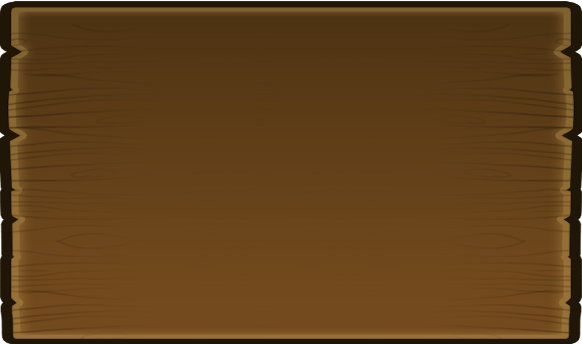
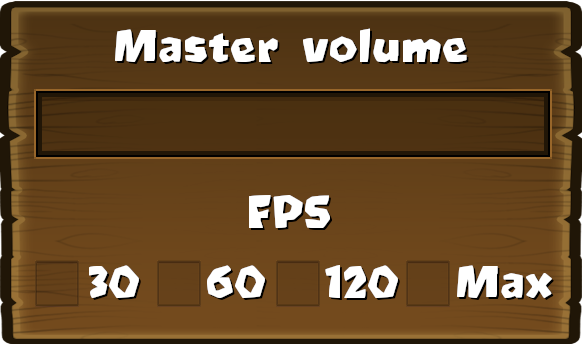
Added fully functionnal settings menu, volume slider, framerate selector, added buttons, fixed three states button, TODO : Adding volume changing depending on master volume slider

diff --git a/include/my_defender.h b/include/my_defender.h
@@ -89,18 +89,19 @@ typedef struct menu_background {
 typedef struct settings_ui {
     button close_button;
     menu_background background;
-    menu_background fps_bg;
     menu_background sound_bg;
+    simple_entity check_mark;
+    sfRectangleShape *volume_rect;
 } settings_ui;
 
 typedef struct menu_scene {
     sfRenderWindow *window;
     menu_background menu_background;
-    settings_ui opt_ui;
+    settings_ui settings_ui;
     menu_ui ui;
     choice_menu choice_menu;
     bool map_selected;
-    int opt_state;
+    int settings_state;
     int choice_state;
     int *game_state;
     int *map_index;
@@ -135,6 +136,7 @@ typedef struct play_scene {
 
 typedef struct game_core {
     sfRenderWindow *window;
+    sfMusic *music;
     play_scene play_scene;
     menu_scene menu_scene;
     sfEvent event;
@@ -149,7 +151,7 @@ char *my_strcat(char *, char *);
 int my_strlen(char *str);
 button create_button(char *file_path, sfFloatRect rect);
 void check_hover_click_ui(menu_scene *menu_scene);
-void check_hover_click_opt(menu_scene *menu_scene);
+void check_hover_click_settings(menu_scene *menu_scene);
 void check_hover_click(menu_scene *menu_scene);
 void fill_button_textures(button *button, char *file_path);
 void hovering_button(menu_scene *menu_scene);
@@ -161,6 +163,8 @@ void settings_interaction(menu_scene *menu_scene);
 void play_interaction(menu_scene *menu_scene);
 void mouse_click_interaction(menu_scene *menu_scene);
 void fill_map_texture(play_scene *play_scene);
+void fps_selection(menu_scene *menu_scene);
+int fps_selection_two(sfVector2i pos, simple_entity check);
 
 //GET
 sfVector2i get_mouse_pos(sfRenderWindow *window);
@@ -178,13 +182,12 @@ void i_game_core_pointers(game_core *game_core);
 void i_play_scene(play_scene *, sfRenderWindow *);
 void i_menu_scene(menu_scene *, sfRenderWindow *);
 void i_menu_background(menu_background *menu_background);
-void i_opt_background(menu_background *menu_background);
-void i_fps_background(menu_background *menu_background);
+void i_settings_background(menu_background *menu_background);
 void i_choice_menu(choice_menu *choice_menu);
 void i_menu_ui(menu_ui *menu_ui);
-void i_settings_ui(settings_ui *opt_ui);
+void i_settings_ui(settings_ui *settings_ui);
 void i_cursor(game_core *gc);
-void i_settings_ui(settings_ui *opt_ui);
+void i_settings_ui(settings_ui *settings_ui);
 void i_choice_menu(choice_menu *choice_menu);
 void i_map(play_scene *play_scene);
 

diff --git a/src/zMain/check_hover_click.c b/src/zMain/check_hover_click.c
@@ -42,17 +42,34 @@ void check_hover_click_choice_menu(menu_scene *menu_scene)
         *menu_scene->map_index = 3;
 }
 
-void check_hover_click_options_menu(menu_scene *menu_scene)
+void volume_selection(menu_scene *scene)
 {
-    if (menu_scene->opt_ui.close_button.state == HOVER && sfMouse_isButtonPressed(sfMouseLeft))
-        menu_scene->opt_ui.close_button.state = CLICKING;
-    if (menu_scene->opt_ui.close_button.state == HOVER && menu_scene->event->mouseButton.type == sfEvtMouseButtonReleased && menu_scene->opt_state == 1)
-        menu_scene->opt_ui.close_button.state = CLICKED;
+    sfVector2i pos = sfMouse_getPositionRenderWindow(scene->window);
+    sfRectangleShape *rect = scene->settings_ui.volume_rect;
+    float rect_y = sfRectangleShape_getSize(scene->settings_ui.volume_rect).y;
+    if (sfMouse_isButtonPressed(sfMouseLeft)) {
+        if (pos.x >= 1242 && pos.x <= 1744 && pos.y >= 397 && pos.y <= 451) {
+            sfMouse_setPositionRenderWindow((sfVector2i){pos.x, 420}, scene->window);
+            sfRectangleShape_setSize(rect, (sfVector2f){pos.x - 1242, rect_y});
+        }
+    }
+}
+
+void check_hover_click_settings_menu(menu_scene *menu_scene)
+{
+    if (menu_scene->settings_ui.close_button.state == HOVER && sfMouse_isButtonPressed(sfMouseLeft))
+        menu_scene->settings_ui.close_button.state = CLICKING;
+    if (menu_scene->settings_ui.close_button.state == HOVER && menu_scene->event->mouseButton.type == sfEvtMouseButtonReleased && menu_scene->settings_state == 1)
+        menu_scene->settings_ui.close_button.state = CLICKED;
+    if (menu_scene->settings_state == 1) {
+        fps_selection(menu_scene);
+        volume_selection(menu_scene);
+    }
 }
 
 void check_hover_click(menu_scene *menu_scene)
 {
     check_hover_click_ui(menu_scene);
-    check_hover_click_options_menu(menu_scene);
+    check_hover_click_settings_menu(menu_scene);
     check_hover_click_choice_menu(menu_scene);
 }

diff --git a/src/zMain/fps_selection.c b/src/zMain/fps_selection.c
@@ -1,0 +1,51 @@
+/*
+** EPITECH PROJECT, 2020
+** MUL_my_defender_2019
+** File description:
+** fps_selection
+*/
+
+#include "../../include/my_defender.h"
+
+int fps_selection_two(sfVector2i pos, simple_entity check)
+{
+    if (pos.x >= 1215 && pos.x <= 1215 + 60 && pos.y >= 560 && pos.y <= 560
+    + 60) {
+        sfSprite_setPosition(check.sprite, (sfVector2f){1235, 560});
+        return (1);
+    }
+    if (pos.x >= 1337 && pos.x <= 1337 + 60 && pos.y >= 560 && pos.y <= 560
+    + 60) {
+        sfSprite_setPosition(check.sprite, (sfVector2f){1357, 560});
+        return (2);
+    }
+    if (pos.x >= 1456 && pos.x <= 1456 + 60 && pos.y >= 560 && pos.y <= 560
+    + 60) {
+        sfSprite_setPosition(check.sprite, (sfVector2f){1476, 560});
+        return (3);
+    }
+    if (pos.x >= 1586 && pos.x <= 1586 + 60 && pos.y >= 560 && pos.y <= 560
+    + 60) {
+        sfSprite_setPosition(check.sprite, (sfVector2f){1606, 560});
+        return (4);
+    }
+    return (-1);
+}
+
+void fps_selection(menu_scene *menu_scene)
+{
+    sfVector2i pos = sfMouse_getPositionRenderWindow(menu_scene->window);
+    simple_entity check = menu_scene->settings_ui.check_mark;
+    if (menu_scene->event->mouseButton.type == sfEvtMouseButtonPressed) {
+        switch (fps_selection_two(pos, check)) {
+            case 1: sfRenderWindow_setFramerateLimit(menu_scene->window, 30);
+                break;
+            case 2: sfRenderWindow_setFramerateLimit(menu_scene->window, 60);
+                break;
+            case 3: sfRenderWindow_setFramerateLimit(menu_scene->window, 120);
+                break;
+            case 4: sfRenderWindow_setFramerateLimit(menu_scene->window, 0);
+                break;
+        }
+    }
+}

diff --git a/src/Display/Disp_game_core.c b/src/Display/Disp_game_core.c
@@ -18,18 +18,19 @@ void d_menu_ui(menu_ui *ui, sfRenderWindow *window)
 void d_settings_ui(settings_ui *ui, sfRenderWindow *window)
 {
     sfRenderWindow_drawSprite(window, ui->close_button.sprite, NULL);
+    sfRenderWindow_drawSprite(window, ui->check_mark.sprite, NULL);
+    sfRenderWindow_drawRectangleShape(window, ui->volume_rect, NULL);
 }
 
 void d_settings_background(settings_ui *ui, sfRenderWindow *window)
 {
     sfRenderWindow_drawSprite(window, ui->background.background_sprite, NULL);
-    sfRenderWindow_drawSprite(window, ui->fps_bg.background_sprite, NULL);
 }
 
 void d_settings(menu_scene *menu_scene)
 {
-    d_settings_background(&menu_scene->opt_ui, menu_scene->window);
-    d_settings_ui(&menu_scene->opt_ui,menu_scene->window);
+    d_settings_background(&menu_scene->settings_ui, menu_scene->window);
+    d_settings_ui(&menu_scene->settings_ui,menu_scene->window);
 }
 
 void d_choice_menu_bg(simple_entity *background, sfRenderWindow *window)
@@ -63,7 +64,7 @@ void d_menu_scene(menu_scene *menu_scene)
 {
     d_menu_background(&menu_scene->menu_background, menu_scene->window);
     d_menu_ui(&menu_scene->ui, menu_scene->window);
-    if (menu_scene->opt_state == 1)
+    if (menu_scene->settings_state == 1)
         d_settings(menu_scene);
     if (menu_scene->choice_state == 1)
         d_choice_menu(menu_scene);

diff --git a/src/zMain/interactions.c b/src/zMain/interactions.c
@@ -9,7 +9,7 @@
 
 void quit_interaction(menu_scene *menu_scene)
 {
-    if (menu_scene->ui.quit_btn.state == CLICKED && menu_scene->opt_state == 0 &&
+    if (menu_scene->ui.quit_btn.state == CLICKED && menu_scene->settings_state == 0 &&
     menu_scene->choice_state == 0) {
         sfRenderWindow_close(menu_scene->window);
     }
@@ -18,21 +18,19 @@ void quit_interaction(menu_scene *menu_scene)
 void settings_interaction(menu_scene *menu_scene)
 {
     if (menu_scene->ui.settings_btn.state == CLICKED && menu_scene->choice_state == 0) {
-        menu_scene->opt_state = 1;
+        menu_scene->settings_state = 1;
     }
-    if (menu_scene->opt_ui.close_button.state == CLICKED) {
-        menu_scene->opt_state = 0;
+    if (menu_scene->settings_ui.close_button.state == CLICKED) {
+        menu_scene->settings_state = 0;
     }
 }
 
 void play_interaction(menu_scene *menu_scene)
 {
-    if (menu_scene->ui.play_btn.state == CLICKED && menu_scene->opt_state == 0) {
+    if (menu_scene->ui.play_btn.state == CLICKED && menu_scene->settings_state == 0)
         menu_scene->choice_state = 1;
-    }
-    if (menu_scene->choice_menu.close_btn.state == CLICKED) {
+    if (menu_scene->choice_menu.close_btn.state == CLICKED)
         menu_scene->choice_state = 0;
-    }
 }
 
 void mouse_click_interaction(menu_scene *menu_scene)

diff --git a/src/Initialization/Init_settings_background.c b/src/Initialization/Init_settings_background.c
@@ -2,17 +2,16 @@
 ** EPITECH PROJECT, 2020
 ** MUL_my_defender_2019
 ** File description:
-** Init_opt_background
+** Init_settings_background
 */
 
 #include "../../include/my_defender.h"
 
-void i_opt_background(menu_background *menu_background)
+void i_settings_background(menu_background *menu_background)
 {
     menu_background->background_sprite = sfSprite_create();
     menu_background->background_texture = sfTexture_createFromFile("img/menu_scene/settings_bg.png", NULL);
-    menu_background->pos = (sfVector2f){570.0, 210.0};
+    menu_background->pos = (sfVector2f){1200.0, 300.0};
     sfSprite_setTexture(menu_background->background_sprite, menu_background->background_texture, sfTrue);
     sfSprite_setPosition(menu_background->background_sprite, menu_background->pos);
-    sfSprite_setScale(menu_background->background_sprite, (sfVector2f){1.35, 1.35});
 }

diff --git a/src/Initialization/Init_settings_ui.c b/src/Initialization/Init_settings_ui.c
@@ -7,10 +7,12 @@
 
 #include "../../include/my_defender.h"
 
-void i_settings_ui(settings_ui *opt_ui)
+void i_settings_ui(settings_ui *ui)
 {
-    i_opt_background(&opt_ui->background);
-    i_fps_background(&opt_ui->fps_bg);
-    opt_ui->close_button = create_button("img/in_game_buttons/close_", (sfFloatRect){1220.0, 280.0, 75, 75});
-    sfSprite_setPosition(opt_ui->close_button.sprite, opt_ui->close_button.pos);
+    i_settings_background(&ui->background);
+    ui->close_button = create_button("img/in_game_buttons/close_", (sfFloatRect){1730.0, 280.0, 75, 75});
+    ui->check_mark = set_simple_entity("img/menu_scene/checked.png", (sfFloatRect){1357, 560, 48, 50});
+    ui->volume_rect = sfRectangleShape_create();
+    sfRectangleShape_setPosition(ui->volume_rect, (sfVector2f){1242, 397});
+    sfRectangleShape_setSize(ui->volume_rect, (sfVector2f){251, 54});
 }

diff --git a/src/Initialization/Init_game_core.c b/src/Initialization/Init_game_core.c
@@ -7,10 +7,15 @@
 
 #include "../../include/my_defender.h"
 
+void i_music(game_core *game_core)
+{
+    sfMusic_setVolume(game_core->music, 50);
+}
+
 void i_game_core(game_core *game_core)
 {
     sfRenderWindow *window = sfRenderWindow_create((sfVideoMode){1920, 1080, 32}
-    , "TOWER DEFENSE", sfDefaultStyle, NULL);
+    , "Bloons TD 5", sfDefaultStyle, NULL);
     sfRenderWindow_setFramerateLimit(window, 60);
     game_core->window = window;
     game_core->game_state = MENU;
@@ -18,4 +23,5 @@ void i_game_core(game_core *game_core)
     i_cursor(game_core);
     i_menu_scene(&game_core->menu_scene, window);
     i_play_scene(&game_core->play_scene, window);
+    i_music(game_core);
 }

diff --git a/src/Update/Update_game_core.c b/src/Update/Update_game_core.c
@@ -19,7 +19,7 @@ void u_cursor(game_core *game_core)
 {
     game_core->mouse_cursor.pos.x = sfMouse_getPositionRenderWindow(game_core->window).x;
     game_core->mouse_cursor.pos.y = sfMouse_getPositionRenderWindow(game_core->window).y;
-    if (game_core->event.mouseButton.type == sfEvtMouseButtonPressed)
+    if (sfMouse_isButtonPressed(sfMouseLeft))
         sfSprite_setTextureRect(game_core->mouse_cursor.sprite, (sfIntRect){0, 64, 64, 64});
     else
         sfSprite_setTextureRect(game_core->mouse_cursor.sprite, (sfIntRect){0, 0, 64, 64});

diff --git a/src/zMain/hovering_buttons.c b/src/zMain/hovering_buttons.c
@@ -39,8 +39,8 @@ void hovering_choice_menu_buttons(menu_scene *menu_scene)
 
 void hovering_settings_buttons(menu_scene *menu_scene)
 {
-    if (is_hovering(menu_scene->opt_ui.close_button, menu_scene->window)) {
-        menu_scene->opt_ui.close_button.state = HOVER;
+    if (is_hovering(menu_scene->settings_ui.close_button, menu_scene->window)) {
+        menu_scene->settings_ui.close_button.state = HOVER;
     } else
-        menu_scene->opt_ui.close_button.state = IDLE;
+        menu_scene->settings_ui.close_button.state = IDLE;
 }

diff --git a/src/zMain/set_texture.c b/src/zMain/set_texture.c
@@ -28,7 +28,7 @@ void settexture_allbuttons(menu_scene *menu_scene)
     settexture_state(&menu_scene->ui.hiscore_btn);
     settexture_state(&menu_scene->ui.settings_btn);
     settexture_state(&menu_scene->ui.quit_btn);
-    settexture_state(&menu_scene->opt_ui.close_button);
+    settexture_state(&menu_scene->settings_ui.close_button);
     settexture_state(&menu_scene->choice_menu.close_btn);
     settexture_state(&menu_scene->choice_menu.map_one_btn);
     settexture_state(&menu_scene->choice_menu.map_two_btn);

diff --git a/src/Initialization/Init_menu_scene.c b/src/Initialization/Init_menu_scene.c
@@ -10,11 +10,11 @@
 void i_menu_scene(menu_scene *menu_scene, sfRenderWindow *window)
 {
     menu_scene->window = window;
-    menu_scene->opt_state = 0;
+    menu_scene->settings_state = 0;
     menu_scene->map_selected = false;
     menu_scene->choice_state = 0;
     i_menu_background(&menu_scene->menu_background);
-    i_settings_ui(&menu_scene->opt_ui);
+    i_settings_ui(&menu_scene->settings_ui);
     i_menu_ui(&menu_scene->ui);
     i_choice_menu(&menu_scene->choice_menu);
 }
